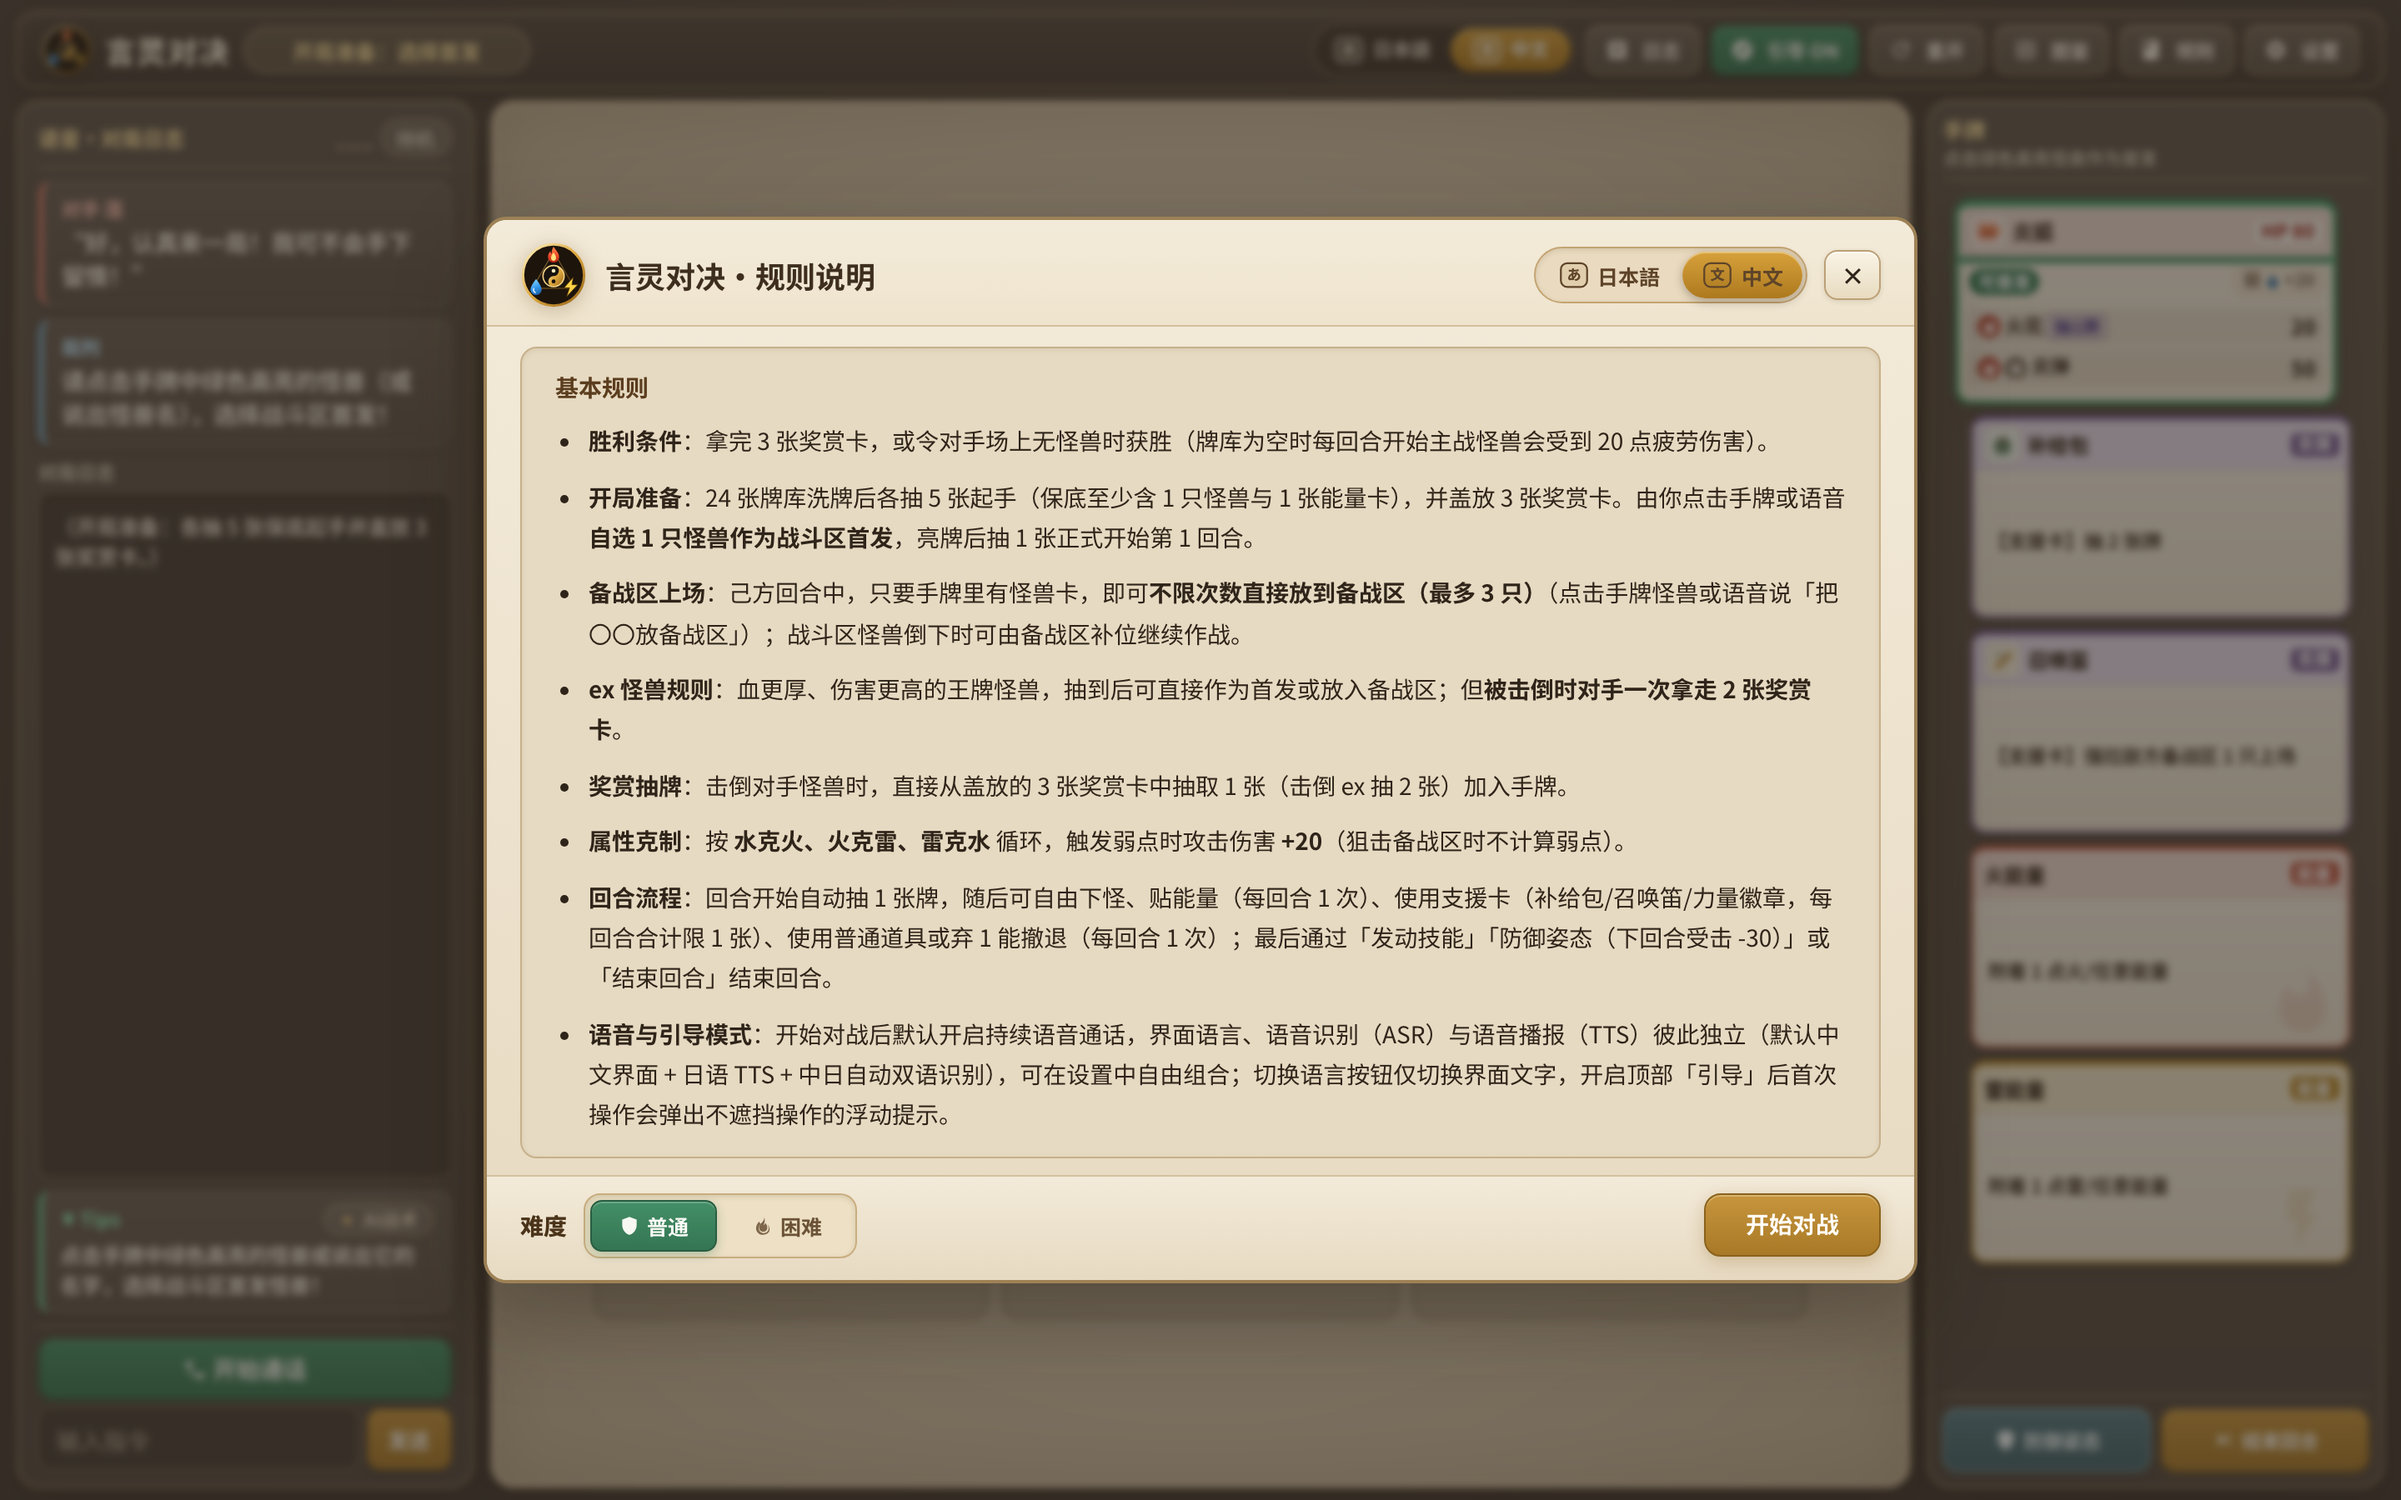
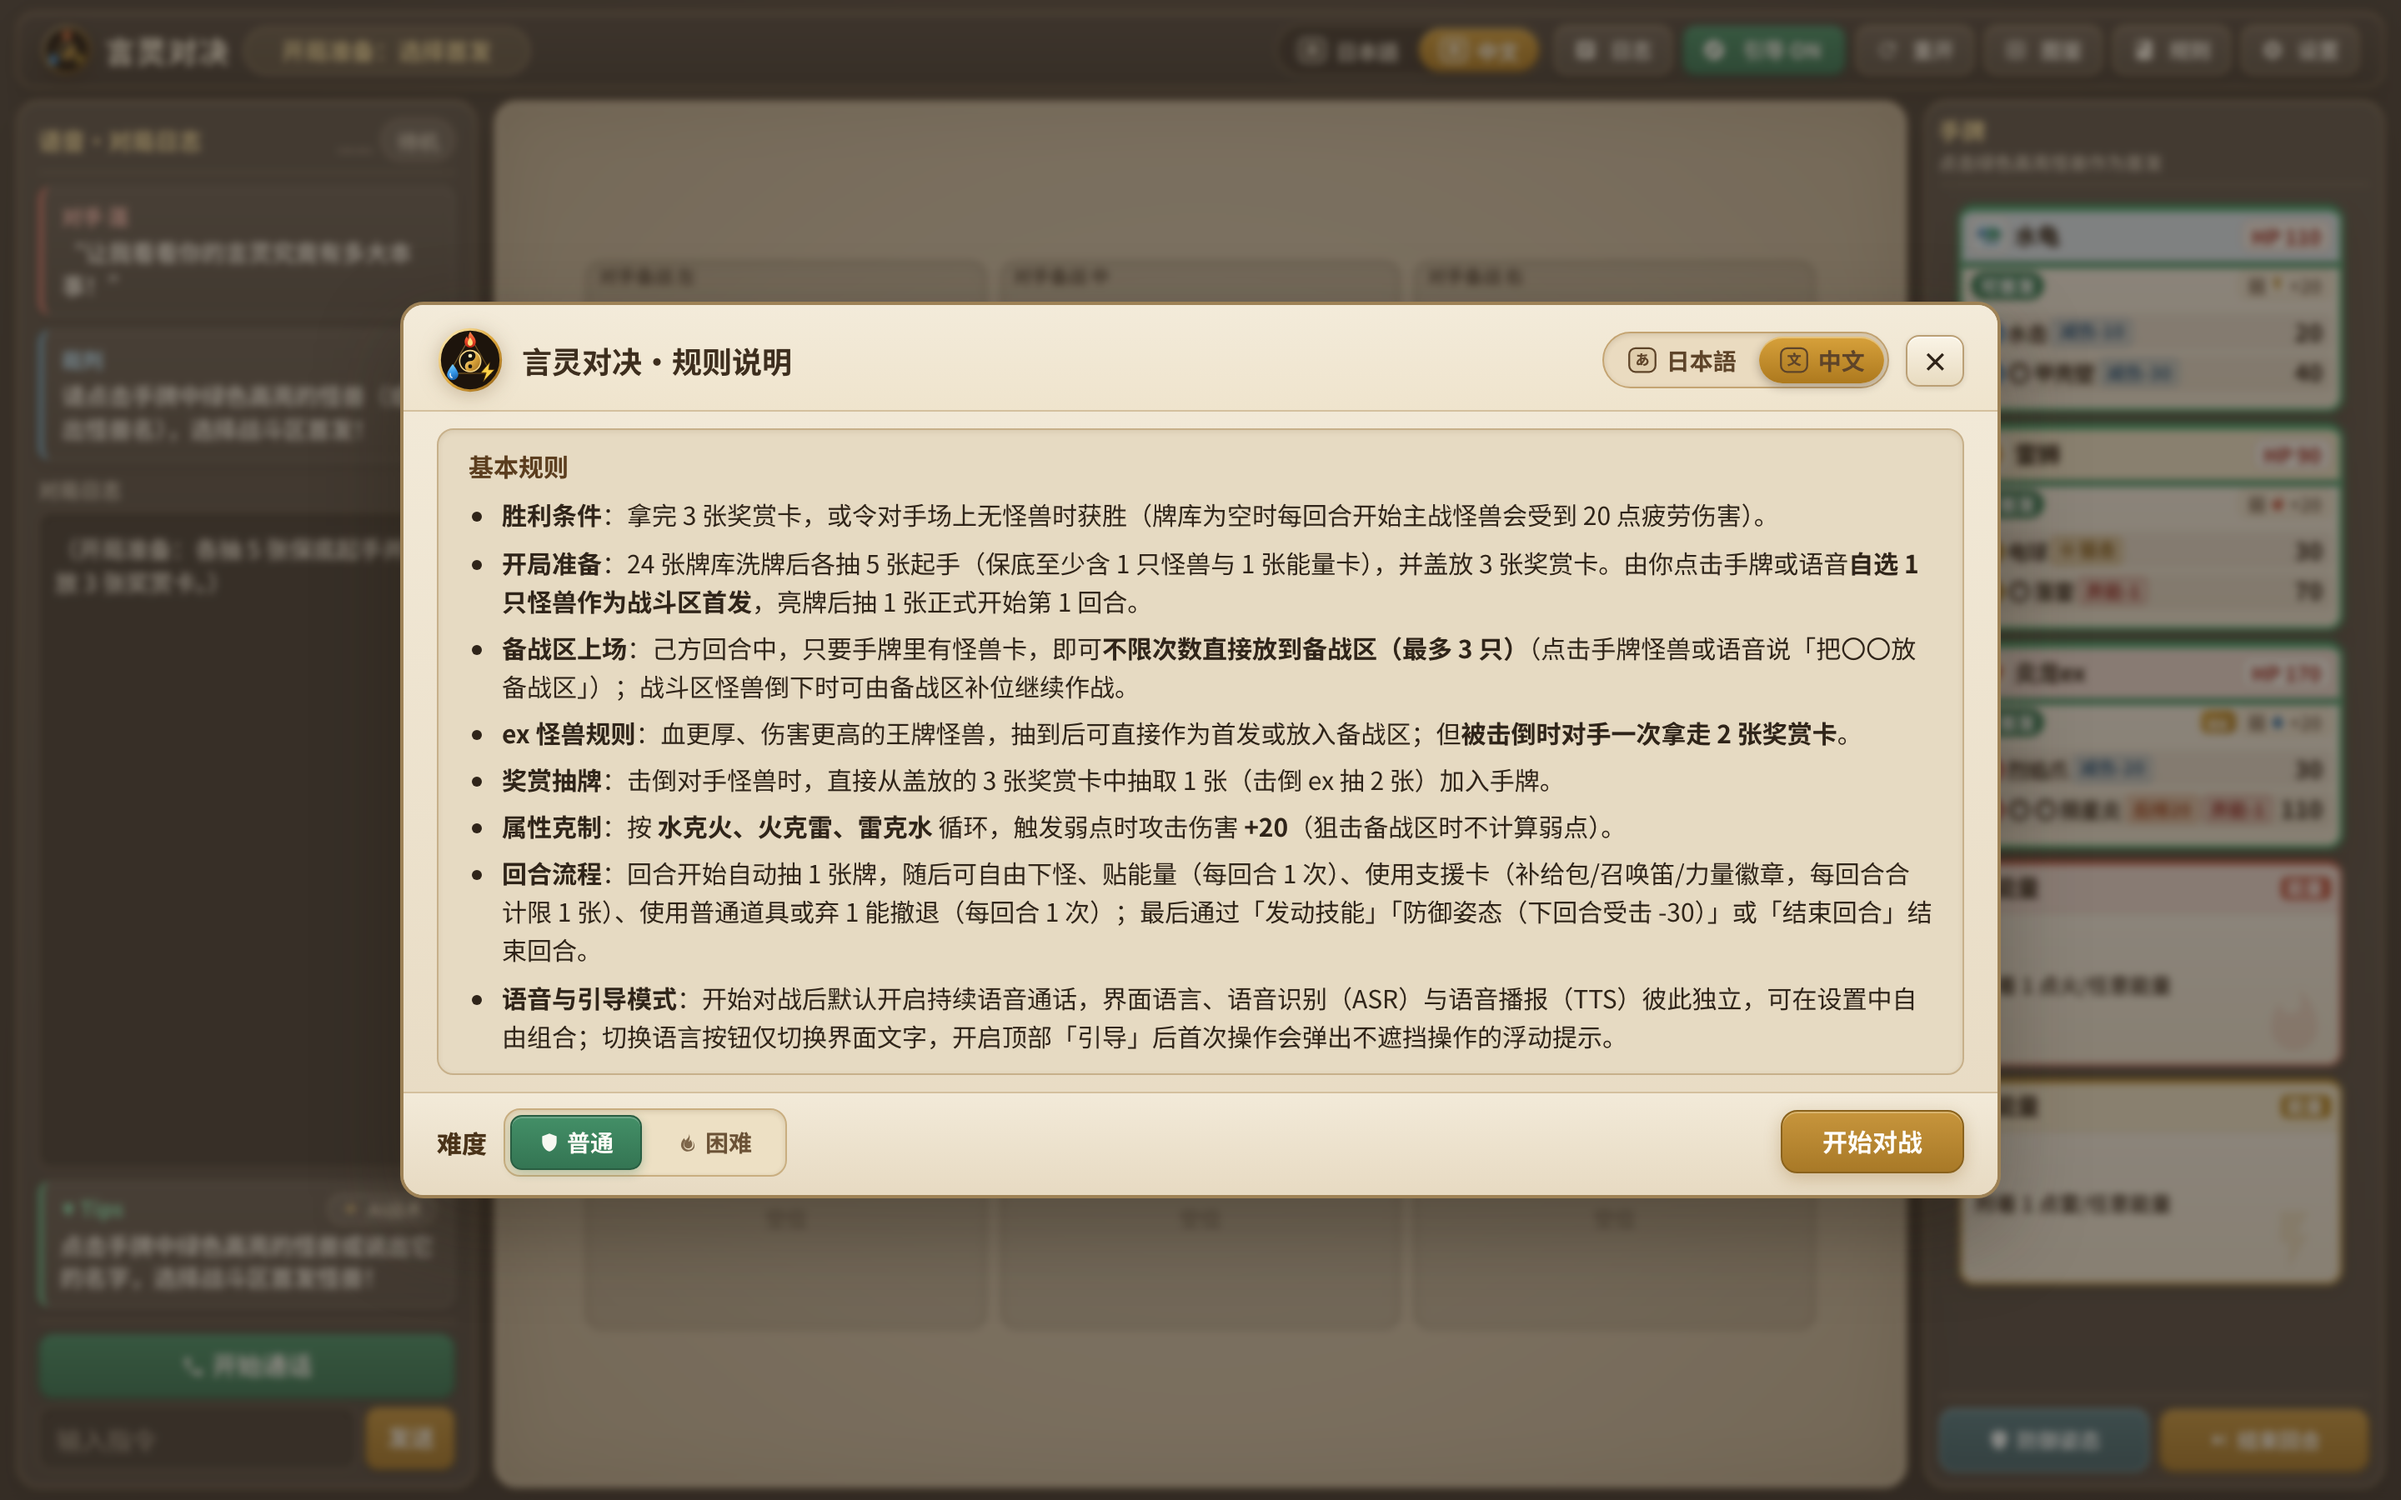
style(rules): remove default lang note and fit landscape rules without scroll

Changed region(s): [[0.0, 0.1244, 1.0, 0.8711], [0.5625, 0.0, 0.7188, 0.0622], [0.0312, 0.8089, 0.1562, 0.8711]]

diff --git a/index.html b/index.html
@@ -3777,14 +3777,14 @@
   .turn-banner .tb-zh { font-size: var(--fs-xl); font-weight: 800; color: #fdf4df; margin-top: 0; transform: skewX(8deg); }
 
   /* 规则弹窗：单栏清晰阅读 */
-  #rulesModal .modal-box { width: min(860px, calc(100vw - 24px)); max-width: 860px; max-height: 94vh; padding: 14px 22px; }
+  #rulesModal .modal-box { width: min(960px, calc(100vw - 24px)); max-width: 960px; max-height: 94vh; padding: 14px 22px; }
   #rulesModal .modal-head { padding-bottom: 8px; margin-bottom: 9px; gap: 10px; flex-wrap: wrap; }
   #rulesModal .modal-head h2 { font-size: var(--fs-xl); line-height: 1.25; }
   .rules-single-wrap { margin-bottom: 10px; }
-  .rules-block { padding: 13px 20px; }
-  .rules-block h3 { font-size: var(--fs-lg); margin: 0 0 10px; }
-  .rules-list { font-size: var(--fs-lg); line-height: 1.74; padding-left: 20px; }
-  .rules-list li { margin-bottom: 9px; }
+  .rules-block { padding: 11px 18px; }
+  .rules-block h3 { font-size: var(--fs-lg); margin: 0 0 7px; }
+  .rules-list { font-size: var(--fs-lg); line-height: 1.54; padding-left: 20px; }
+  .rules-list li { margin-bottom: 5px; }
   .rules-list li:last-child { margin-bottom: 0; }
   .diff-picker { font-size: var(--fs-lg); }
   .diff-btn { font-size: var(--fs-md); padding: 7px 16px; }
@@ -4906,12 +4906,12 @@
     margin-bottom: 0;
   }
   #rulesModal .rules-single-wrap {
-    padding: 12px 20px 10px;
+    padding: 10px 20px 10px;
   }
   #rulesModal .rules-footer {
     flex-shrink: 0;
     margin-top: 0;
-    padding: 10px 20px 13px;
+    padding: 9px 20px 11px;
     border-top: 1.5px solid #d4c09e;
     background: linear-gradient(180deg, rgba(243, 235, 218, 0.94) 0%, #e7dac2 100%);
   }
